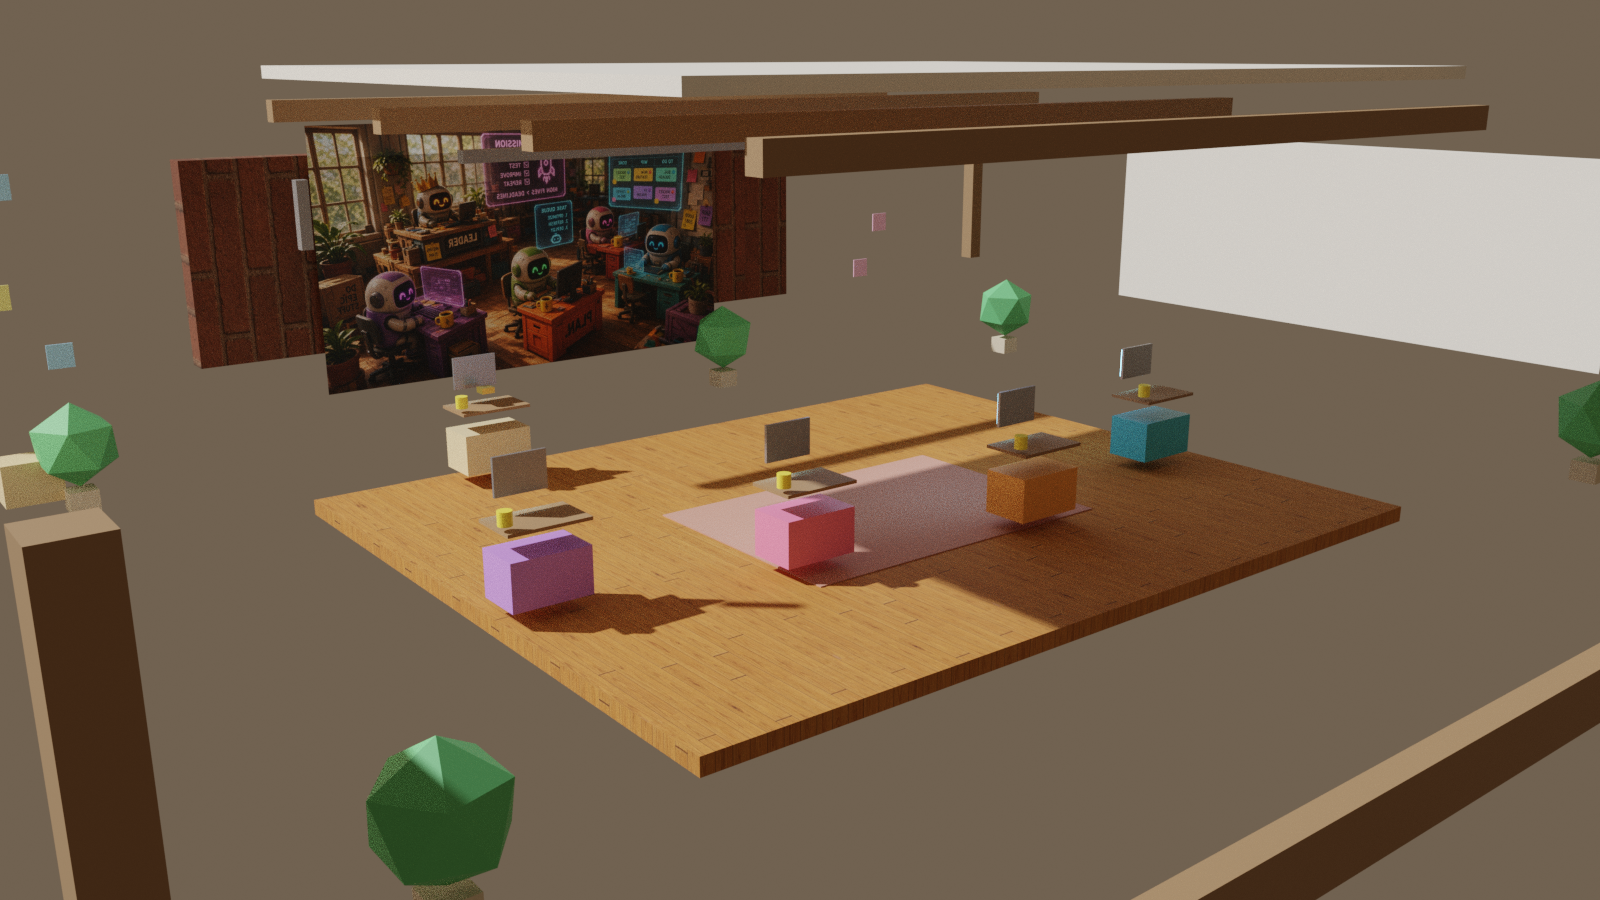
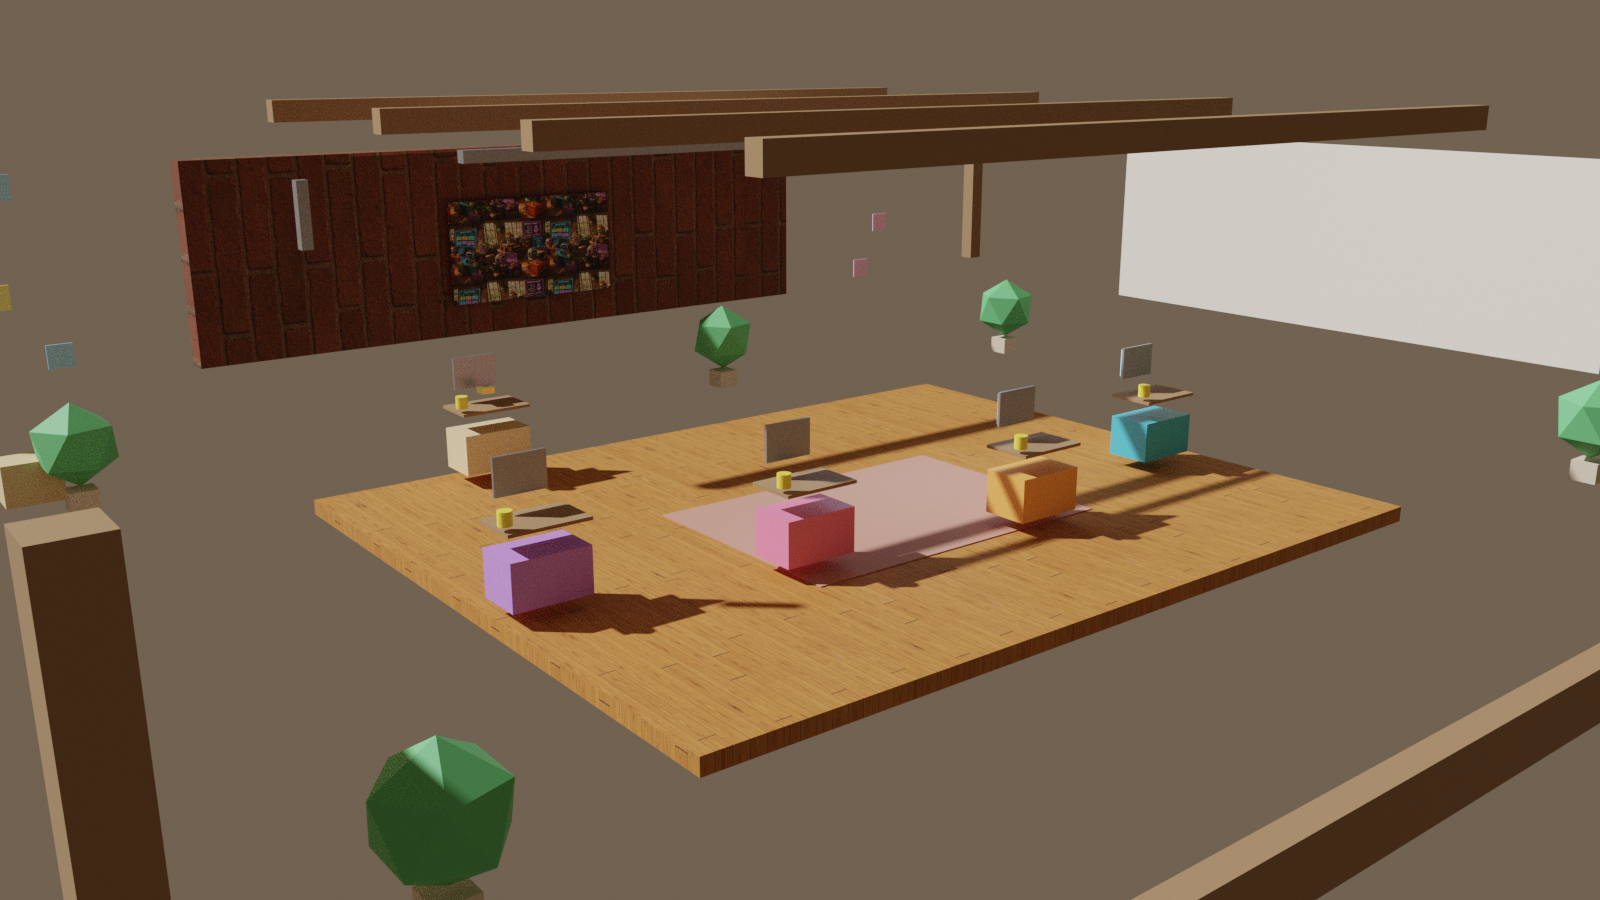
Bot Office god5: drop ceiling slab, fix mural panel, soften bloom

diff --git a/office.html b/office.html
@@ -101,7 +101,7 @@ renderer.shadowMap.enabled=true;
 renderer.shadowMap.type=THREE.PCFSoftShadowMap;
 renderer.outputColorSpace=THREE.SRGBColorSpace;
 renderer.toneMapping=THREE.ACESFilmicToneMapping;
-renderer.toneMappingExposure=1.32;
+renderer.toneMappingExposure=1.05;
 
 const scene=new THREE.Scene();
 scene.background=new THREE.Color(0xb8956e);
@@ -219,7 +219,14 @@ function buildWorld(){
         o.castShadow=true; o.receiveShadow=true;
         if(o.material){
           const mats=Array.isArray(o.material)?o.material:[o.material];
-          mats.forEach(m=>{ m.side=THREE.FrontSide; if(m.map) m.map.colorSpace=THREE.SRGBColorSpace; });
+          mats.forEach(m=>{
+            m.side=THREE.FrontSide;
+            if(m.map) m.map.colorSpace=THREE.SRGBColorSpace;
+            if(m.emissiveIntensity!=null) m.emissiveIntensity=Math.min(m.emissiveIntensity,1.5);
+            if(m.name&&/ceil/i.test(m.name+o.name)) m.visible=false;
+            if(/Ceil|ConceptMural/.test(o.name)&&/Ceil/.test(o.name)) o.visible=false;
+          });
+          if(/^Ceil/i.test(o.name)) o.visible=false;
         }
       }
     });
@@ -463,7 +470,7 @@ function loop(){
 buildWorld(); setupInput(); applyCam(); hud();
 composer=new EffectComposer(renderer);
 composer.addPass(new RenderPass(scene,camera));
-bloomPass=new UnrealBloomPass(new THREE.Vector2(innerWidth,innerHeight),0.75,0.4,0.5);
+bloomPass=new UnrealBloomPass(new THREE.Vector2(innerWidth,innerHeight),0.35,0.5,0.7);
 composer.addPass(bloomPass);
 addEventListener("resize",resize); resize();
 document.getElementById("loading").classList.add("hide");

diff --git a/index.html b/index.html
@@ -1,7 +1,7 @@
 <!DOCTYPE html>
 <html lang="en"><head>
 <meta charset="utf-8"/><meta http-equiv="Cache-Control" content="no-cache, no-store, must-revalidate"/>
-<meta http-equiv="refresh" content="0;url=office.html?v=god4"/>
+<meta http-equiv="refresh" content="0;url=office.html?v=god5"/>
 <title>Bot Office</title>
-<script>location.replace("office.html?v=god4&t="+Date.now());</script>
-</head><body><a href="office.html?v=god4">Open</a></body></html>
+<script>location.replace("office.html?v=god5&t="+Date.now());</script>
+</head><body><a href="office.html?v=god5">Open</a></body></html>

diff --git a/blender/export_loft.py b/blender/export_loft.py
@@ -66,8 +66,8 @@ brick = mat_img("Brick", load(BLEND / "brick.png"), 0.9, (5, 2.2))
 plaster = mat_col("Plaster", (0.92, 0.88, 0.80, 1), 0.85)
 wood_dark = mat_col("WoodDark", (0.35, 0.22, 0.12, 1), 0.7)
 metal = mat_col("Metal", (0.45, 0.45, 0.48, 1), 0.35, metal=0.7)
-glass = mat_col("GlassWarm", (1.0, 0.92, 0.75, 1), 0.08, emit=8)
-screen = mat_col("Screen", (0.25, 0.75, 1.0, 1), 0.15, emit=12)
+glass = mat_col("GlassWarm", (1.0, 0.92, 0.75, 1), 0.15, emit=1.2)
+screen = mat_col("Screen", (0.25, 0.75, 1.0, 1), 0.2, emit=2.5)
 plant = mat_col("Plant", (0.15, 0.55, 0.22, 1), 0.65)
 potm = mat_col("Pot", (0.72, 0.62, 0.48, 1), 0.8)
 sticky_y = mat_col("StickyY", (1.0, 0.92, 0.35, 1), 0.55)
@@ -109,8 +109,7 @@ cube("WallLeft", (-10.9, 0, 2.7), (0.4, 9.1, 3.1), plaster)
 cube("WallRight", (10.9, 0, 2.7), (0.4, 9.1, 3.1), brick)
 # Front half-wall / railing so room feels enclosed from overseer view
 cube("WallFrontLow", (0, 8.9, 0.55), (11.0, 0.25, 0.55), wood_dark)
-# Ceiling + beams
-cube("Ceil", (0, 0, 5.55), (11.2, 9.2, 0.15), plaster)
+# No full ceiling slab — blocks overseer god-view in Three.js
 # Corner posts
 for i,(x,y) in enumerate([(-10.7,-8.7),(10.7,-8.7),(-10.7,8.7),(10.7,8.7)]):
     cube(f"Post{i}", (x,y,2.9), (0.28,0.28,2.9), wood_dark)
@@ -155,12 +154,16 @@ for i, (x, y) in enumerate([(-8.5, 5.5), (-8.5, -5.5), (8.2, 5.5), (8.0, -5.8), 
     leaf.name = f"Leaf{i}"
     leaf.data.materials.append(plant)
 
-# Concept mural (loft-ref) on back wall — big visual win toward the painting
+# Concept mural as thin framed panel on back wall (not a giant plane)
 ref_path = BLEND / "loft-ref.jpg"
 if not ref_path.exists():
     ref_path = ROOT / "loft-ref.jpg"
 if ref_path.exists():
     mural_img = load(ref_path)
+    try:
+        mural_img.colorspace_settings.name = "sRGB"
+    except Exception:
+        pass
     mural_mat = bpy.data.materials.new("Mural")
     mural_mat.use_nodes = True
     n, l = mural_mat.node_tree.nodes, mural_mat.node_tree.links
@@ -169,15 +172,18 @@ if ref_path.exists():
     bsdf = n.new("ShaderNodeBsdfPrincipled")
     tex = n.new("ShaderNodeTexImage"); tex.image = mural_img
     l.new(tex.outputs["Color"], bsdf.inputs["Base Color"])
-    bsdf.inputs["Roughness"].default_value = 0.65
+    bsdf.inputs["Roughness"].default_value = 0.7
+    bsdf.inputs["Emission Strength"].default_value = 0.0
     l.new(bsdf.outputs[0], outn.inputs[0])
-    bpy.ops.mesh.primitive_plane_add(size=1, location=(0, -8.55, 2.6))
-    mural = bpy.context.active_object
-    mural.name = "ConceptMural"
-    mural.scale = (7.5, 4.2, 1)
-    mural.rotation_euler = (math.radians(90), 0, 0)
-    bpy.ops.object.transform_apply(scale=True, rotation=True)
-    mural.data.materials.append(mural_mat)
+    # Thin box: width 6, height 3.4, depth 0.04 — sits on back wall
+    cube("ConceptMural", (0, -8.58, 2.55), (3.0, 0.04, 1.7), mural_mat)
+    # Force UV project so image maps to front face
+    mural = bpy.data.objects["ConceptMural"]
+    bpy.context.view_layer.objects.active = mural
+    bpy.ops.object.mode_set(mode="EDIT")
+    bpy.ops.mesh.select_all(action="SELECT")
+    bpy.ops.uv.cube_project(cube_size=1.0)
+    bpy.ops.object.mode_set(mode="OBJECT")
     print("MURAL", ref_path)
 else:
     print("NO MURAL IMAGE")
